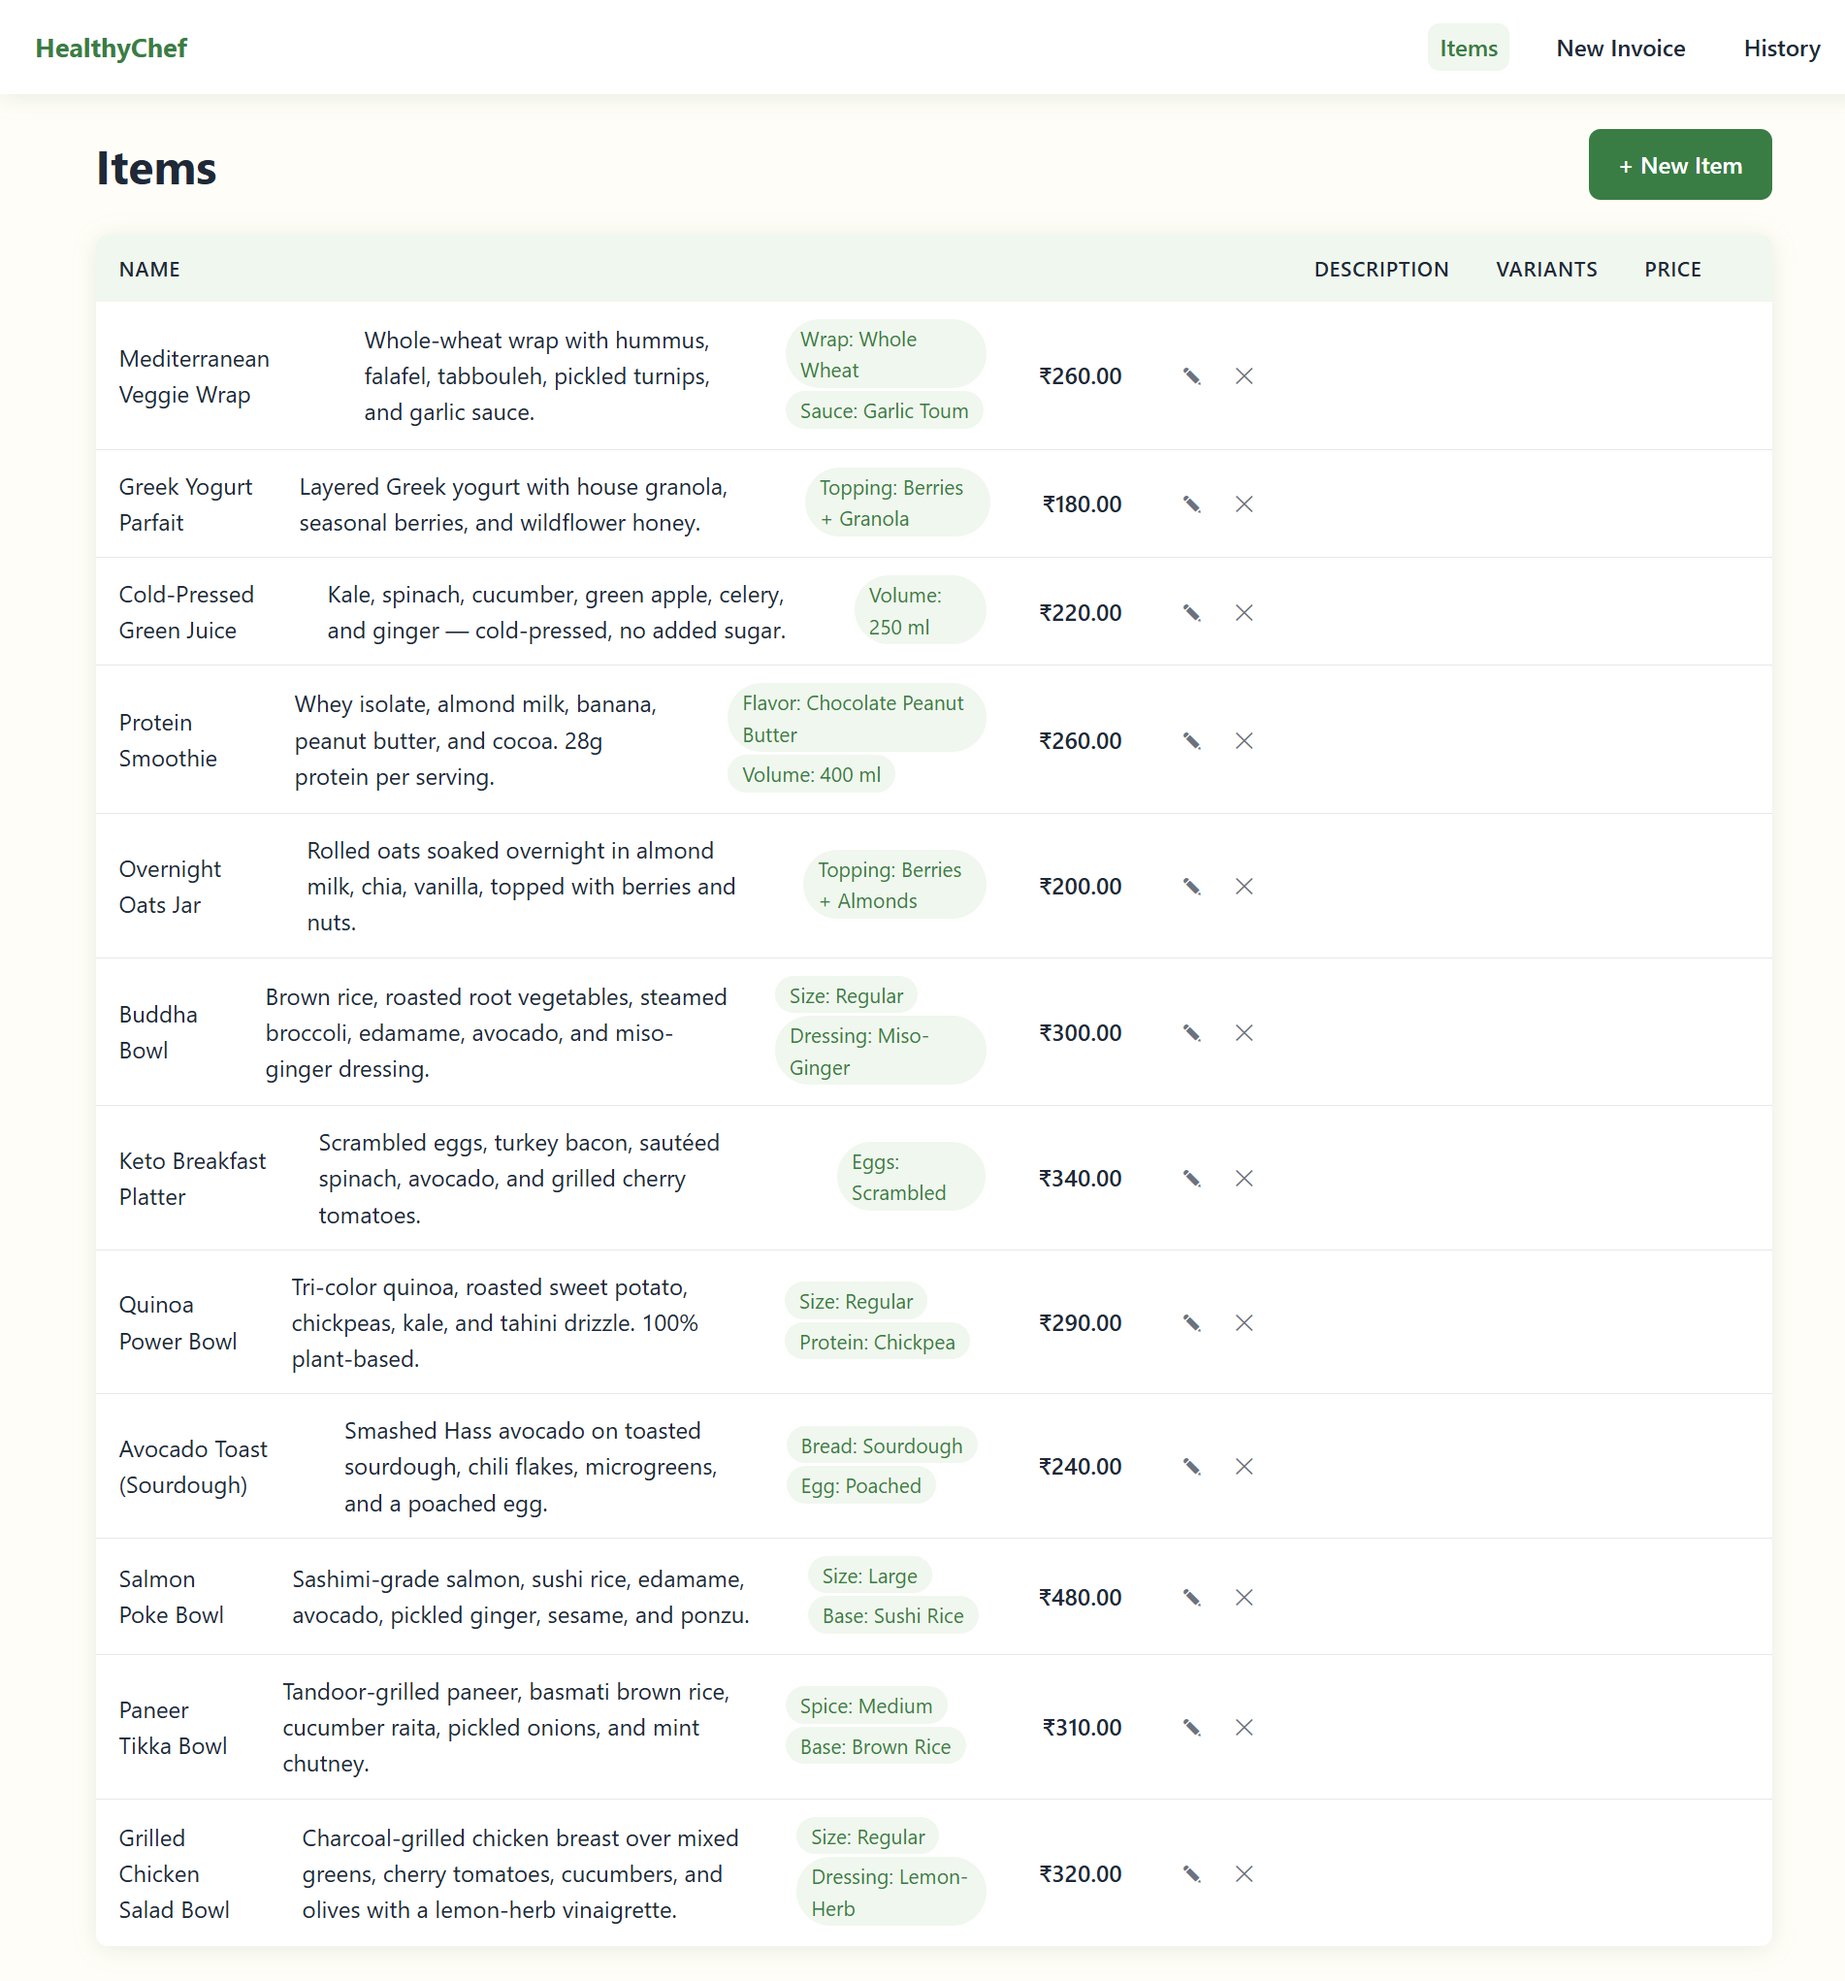
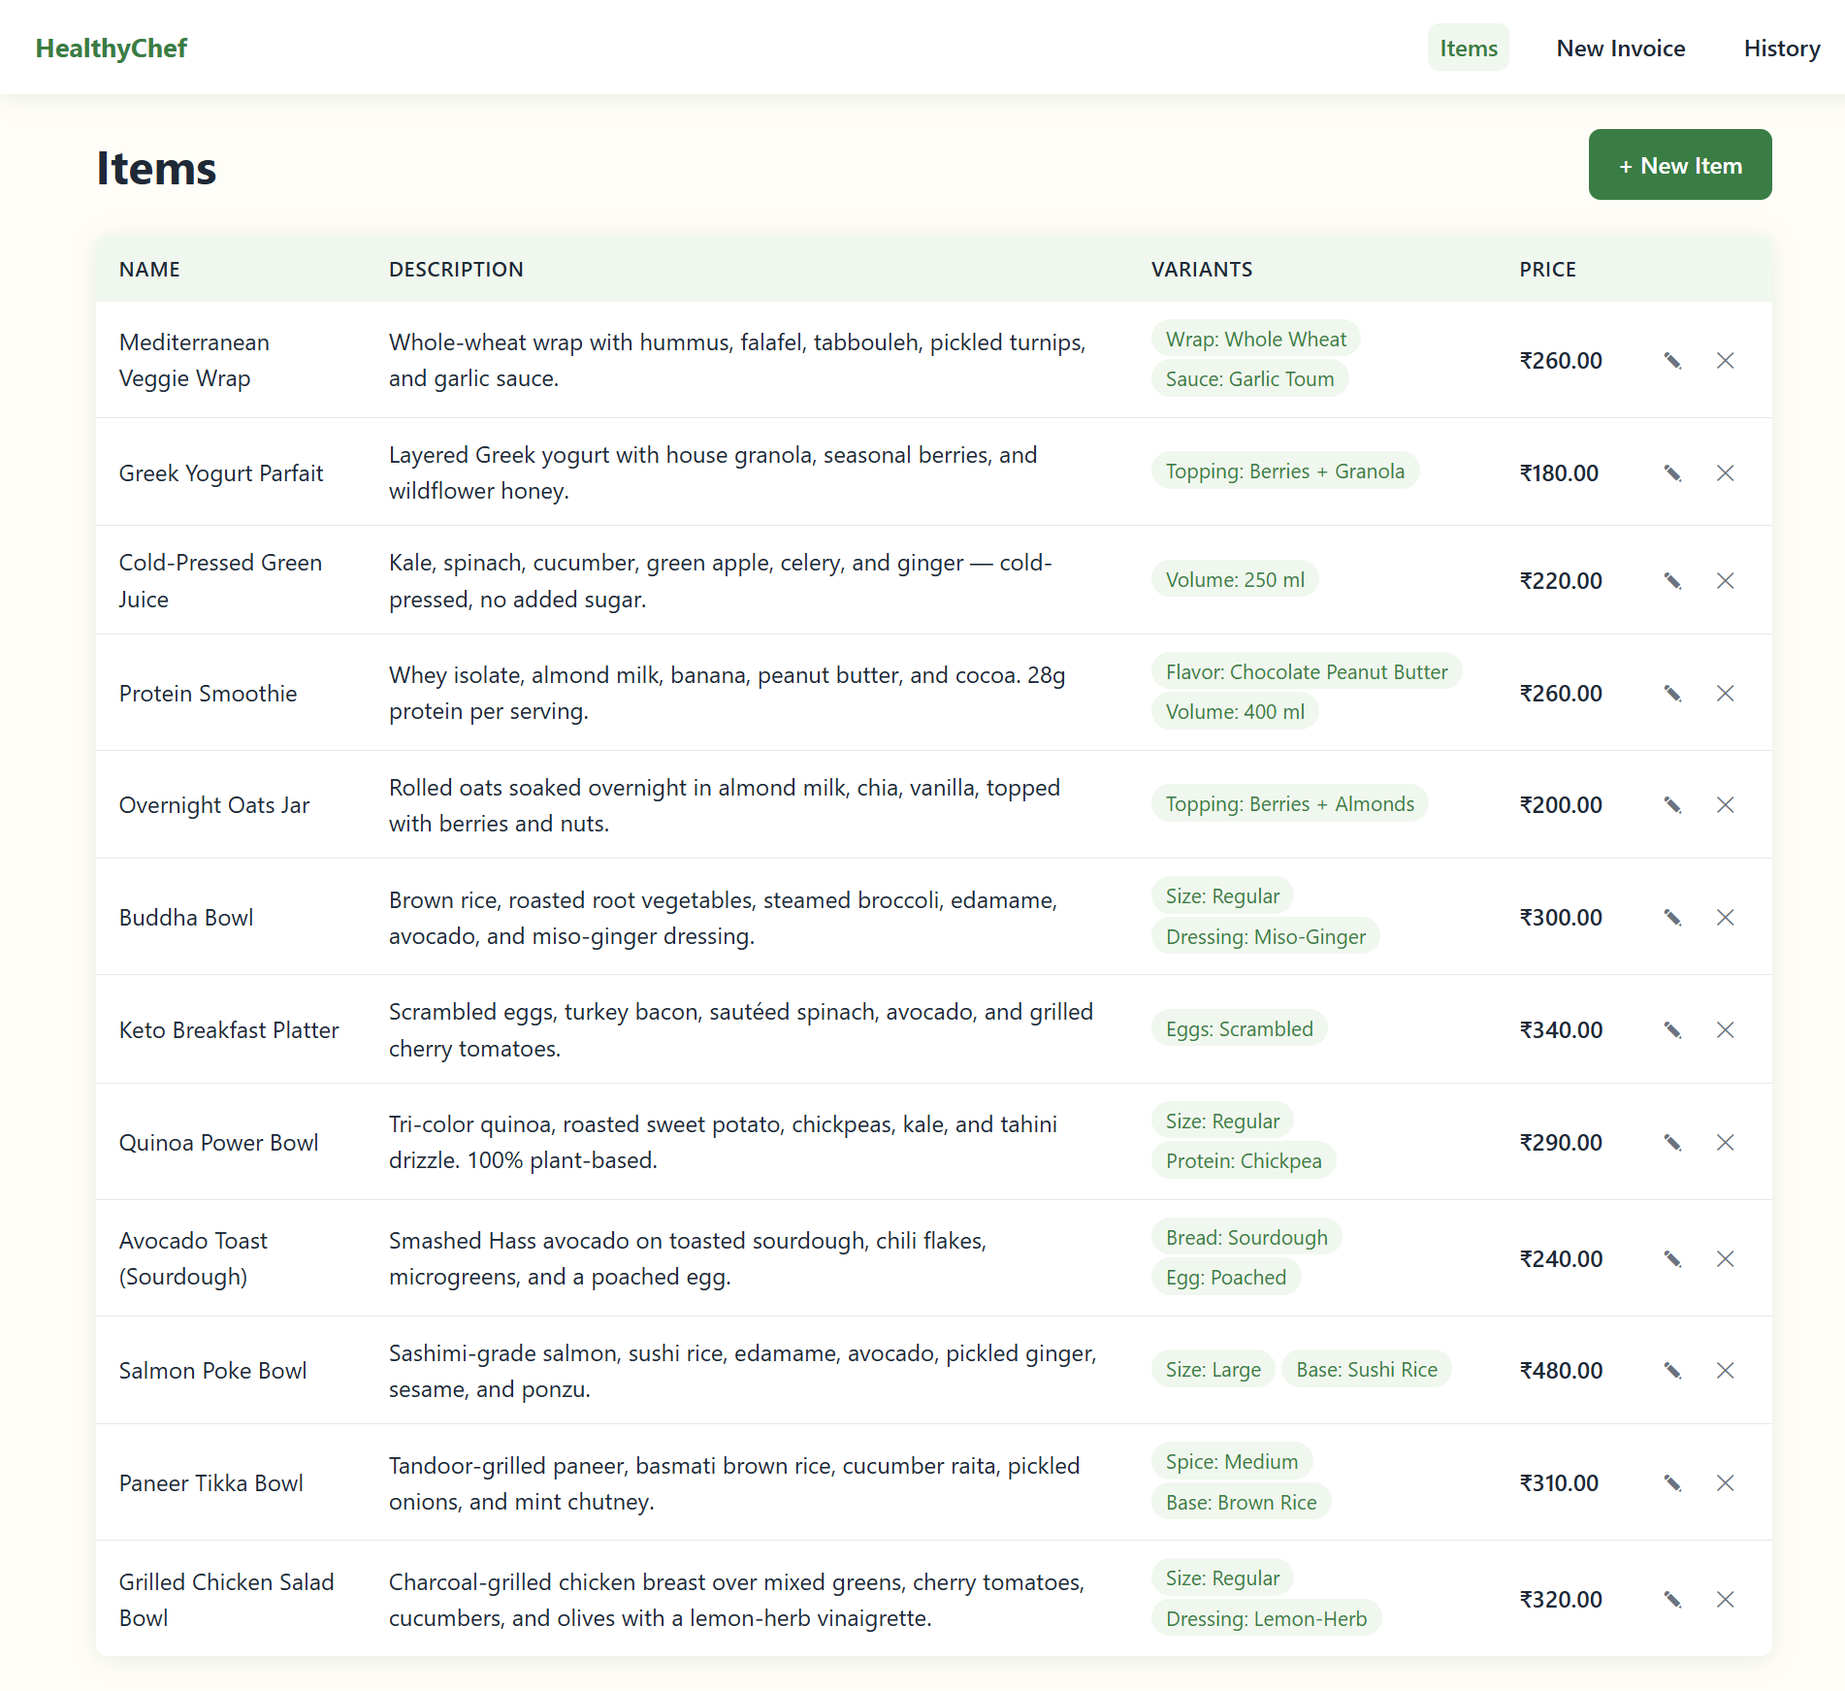
fix(ui): items column alignment and history PDF flicker
Two separate bugs were producing the same class of symptom — UI
looking broken on first paint.

1. Items table: ItemsPage wrapped each row in <motion.tr> while
   ItemRow itself rendered <tr>, producing nested <tr><tr><td>. The
   browser auto-corrected by hoisting, but column widths no longer
   lined up with the <thead>, so DESCRIPTION/VARIANTS/PRICE bunched
   to the right. ItemRow now returns the <td>s as a fragment and
   the outer motion.tr is the sole row element.

2. History "Details" briefly showed "PDF failed" before settling on
   "Download PDF". @react-pdf/renderer fetches the Roboto TTFs
   lazily on first generation, racing with the render; subsequent
   renders hit the browser cache and succeed. Fixed three ways:
   - index.html preloads Roboto-Regular.ttf and Roboto-Bold.ttf so
     the fetch is warm before any PDF is requested.
   - PDFDownloadButton memoizes the InvoicePDFDocument element so
     unrelated re-renders don't trigger regeneration.
   - The button only toggles between "Generating…" and "Download
     PDF" based on url+loading; transient error states no longer
     surface as "PDF failed" flicker.

Refreshed docs/screenshots/items.png to reflect the corrected layout.

diff --git a/client/src/components/pdf/PDFDownloadButton.tsx b/client/src/components/pdf/PDFDownloadButton.tsx
@@ -1,5 +1,5 @@
 import { PDFDownloadLink } from '@react-pdf/renderer';
-import type { ReactElement } from 'react';
+import { useMemo, type ReactElement } from 'react';
 import { Button } from '../ui/Button';
 import { InvoicePDFDocument } from './InvoicePDFDocument';
 import type { Invoice } from '../../types/invoice';
@@ -7,25 +7,28 @@ import type { Invoice } from '../../types/invoice';
 interface BlobParams {
   loading: boolean;
   error: Error | null;
+  url: string | null;
 }
 
 // PDFDownloadLink's children accepts a render function but its TS types in
 // @react-pdf/renderer@3.x only expose ReactNode — cast to satisfy both.
-const renderChildren = (params: BlobParams): ReactElement =>
-  params.error ? (
-    <Button type="button" $variant="ghost" disabled>
-      PDF failed
-    </Button>
-  ) : (
-    <Button type="button" $variant="secondary" disabled={params.loading}>
-      {params.loading ? 'Generating…' : 'Download PDF'}
+// While loading OR in a transient error before the URL settles, stay on
+// "Generating…" rather than flashing "PDF failed"; the first render can race
+// with async font loading and briefly surface an error that clears on retry.
+const renderChildren = (params: BlobParams): ReactElement => {
+  const ready = !!params.url && !params.loading;
+  return (
+    <Button type="button" $variant="secondary" disabled={!ready}>
+      {ready ? 'Download PDF' : 'Generating…'}
     </Button>
   );
+};
 
 export function PDFDownloadButton({ invoice }: { invoice: Invoice }) {
+  const doc = useMemo(() => <InvoicePDFDocument invoice={invoice} />, [invoice]);
   return (
     <PDFDownloadLink
-      document={<InvoicePDFDocument invoice={invoice} />}
+      document={doc}
       fileName={`${invoice.invoiceNumber}.pdf`}
       style={{ textDecoration: 'none' }}
     >

diff --git a/client/index.html b/client/index.html
@@ -4,6 +4,8 @@
     <meta charset="UTF-8" />
     <meta name="viewport" content="width=device-width, initial-scale=1.0" />
     <title>HealthyChef — Invoices</title>
+    <link rel="preload" href="/assets/fonts/Roboto-Regular.ttf" as="font" type="font/ttf" crossorigin="anonymous" />
+    <link rel="preload" href="/assets/fonts/Roboto-Bold.ttf" as="font" type="font/ttf" crossorigin="anonymous" />
   </head>
   <body>
     <div id="root"></div>

diff --git a/client/src/components/items/ItemRow.tsx b/client/src/components/items/ItemRow.tsx
@@ -33,7 +33,7 @@ interface Props {
 
 export function ItemRow({ item, onEdit, onDelete }: Props) {
   return (
-    <tr>
+    <>
       <td>{item.name}</td>
       <td>{item.description || <span style={{ opacity: 0.5 }}>—</span>}</td>
       <td>
@@ -60,6 +60,6 @@ export function ItemRow({ item, onEdit, onDelete }: Props) {
           </IconButton>
         </Actions>
       </td>
-    </tr>
+    </>
   );
 }
